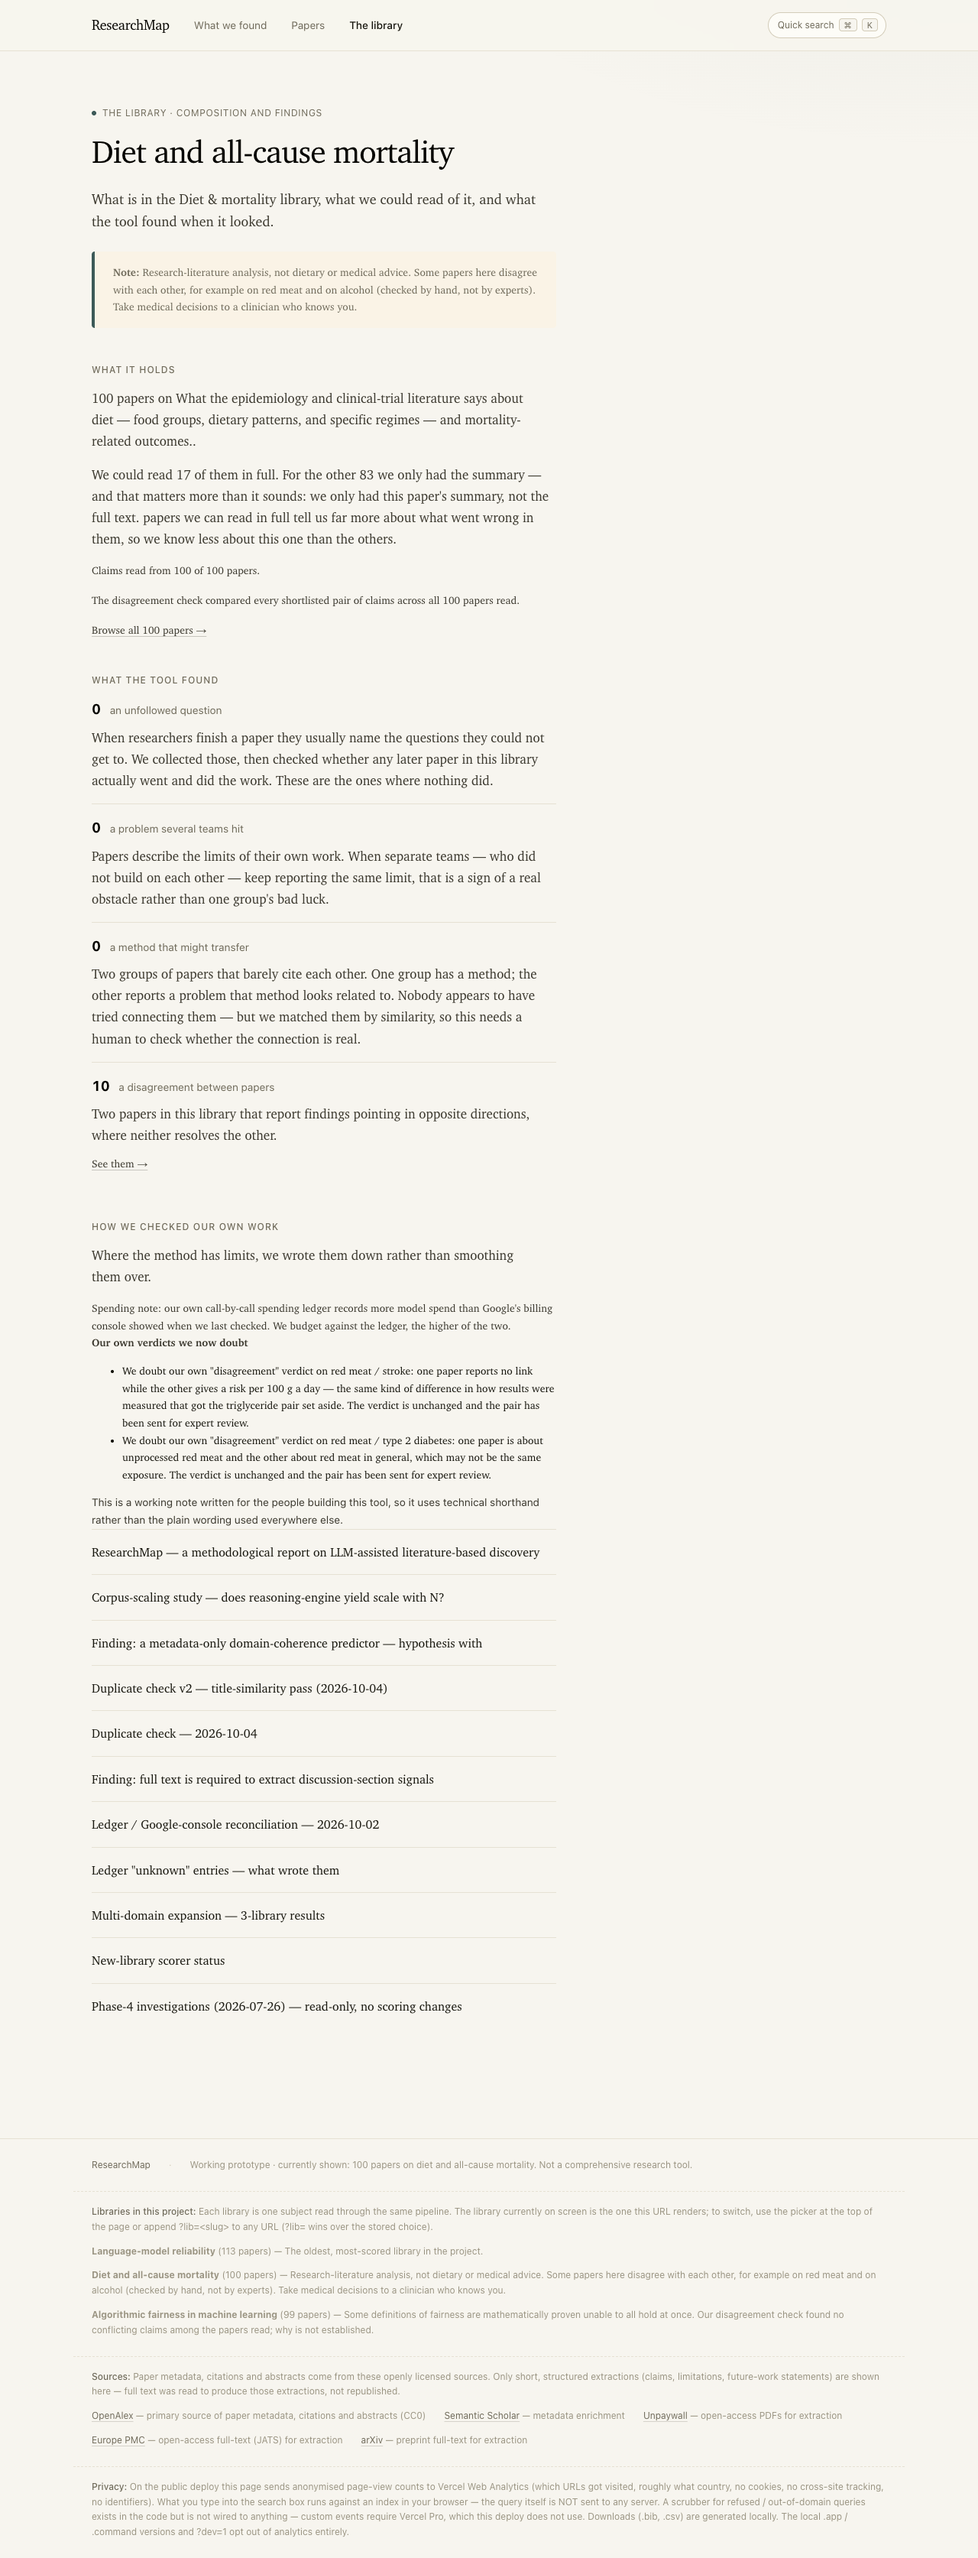
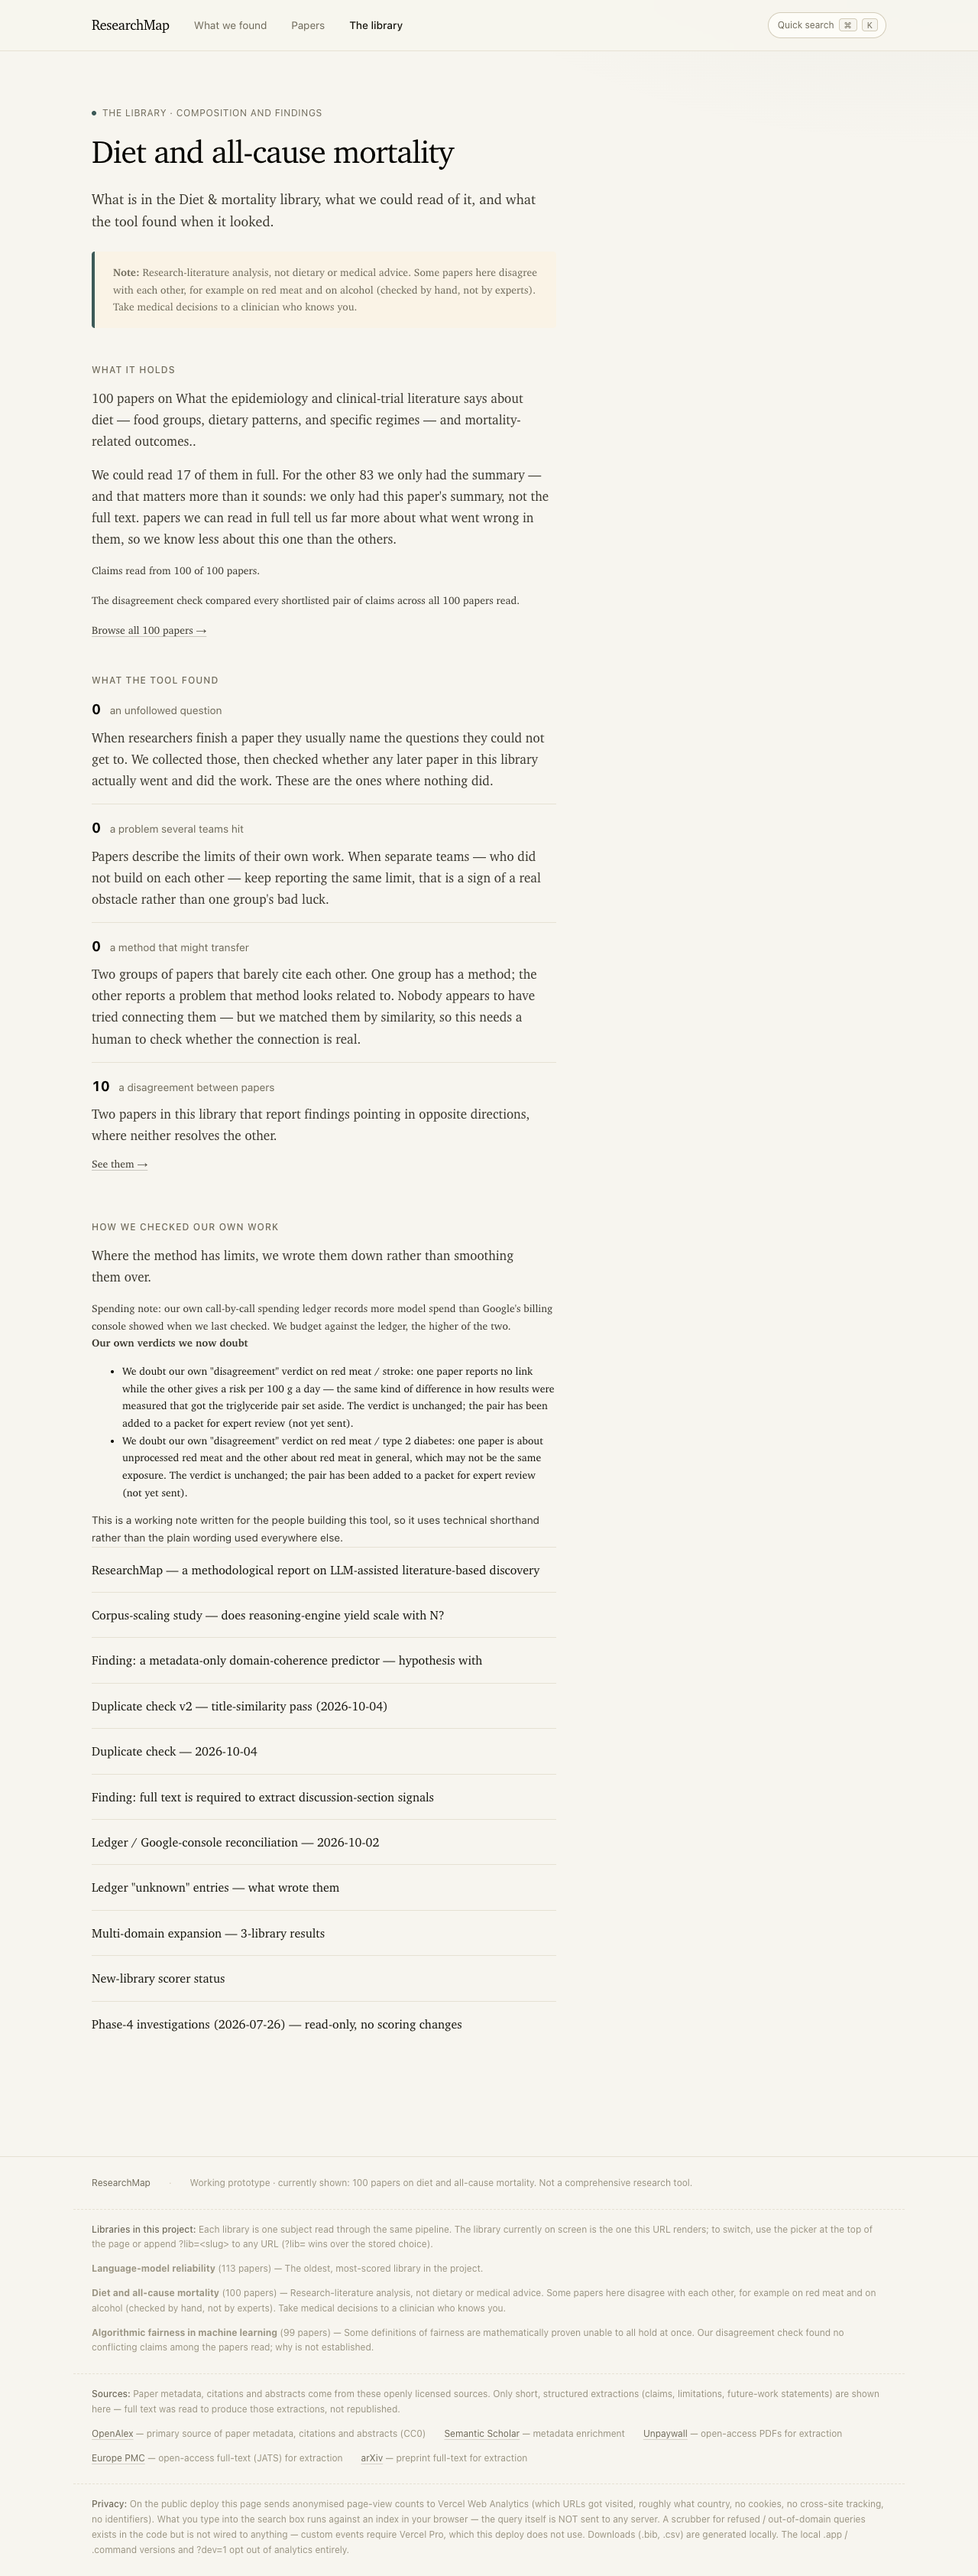
verify: iteration-6 production build (55/55)

diff --git a/scripts/verify/verify_iter6.py b/scripts/verify/verify_iter6.py
@@ -1,0 +1,199 @@
+"""Iteration-6 verification against the production static build.
+
+  (cd frontend && npm run build)                       # no ENABLE_DEV
+  python -m http.server 8765 --bind 127.0.0.1 -d frontend/out &
+  .venv/bin/python scripts/verify/verify_iter6.py <build-sha>
+
+Fresh browser context per check; library via ?lib=<slug>. Settled state:
+1500 ms after the last keystroke. Expected text is read from the shipped
+JSON and the denylist from backend/tests/api/test_public_claims.py, never
+hard-coded here.
+"""
+from __future__ import annotations
+
+import json
+import sys
+from datetime import date
+from pathlib import Path
+
+from playwright.sync_api import sync_playwright
+
+REPO = Path(__file__).resolve().parents[2]
+sys.path.insert(0, str(REPO))
+from backend.tests.api.test_public_claims import DENYLIST  # noqa: E402
+
+BASE = "http://127.0.0.1:8765"
+DATA = REPO / "frontend" / "public" / "data"
+SHOTS = REPO / "docs" / "review" / "screenshots"
+REPORT = REPO / "docs" / "review" / "verification-iteration6.md"
+LIBS = ["llm-calibration", "diet-and-mortality", "ml-fairness"]
+SHOTS.mkdir(parents=True, exist_ok=True)
+results: list[tuple[bool, str]] = []
+
+
+def rec(ok: bool, label: str, detail: str = "") -> None:
+    results.append((ok, f"[{'PASS' if ok else 'FAIL'}] {label}"
+                    + (f" — {detail}" if detail and not ok else "")))
+    print(results[-1][1])
+
+
+def body(pg) -> str:
+    return pg.inner_text("body").lower()
+
+
+def refusal(pg) -> bool:
+    return "that's not in this library" in body(pg)
+
+
+def edge(pg) -> bool:
+    return "at the edge of this library" in body(pg)
+
+
+def open_lib(pg, slug: str, path: str = "/") -> None:
+    pg.goto(f"{BASE}{path}?lib={slug}", wait_until="networkidle")
+    pg.wait_for_timeout(700)
+
+
+def type_settled(pg, sel: str, text: str) -> None:
+    pg.wait_for_selector(sel)
+    pg.fill(sel, "")
+    pg.type(sel, text, delay=120)
+    pg.wait_for_timeout(1500)
+
+
+def main() -> int:
+    sha = sys.argv[1] if len(sys.argv) > 1 else "unknown"
+    findings = json.loads((DATA / "findings.json").read_text())["items"]
+    lang = {s: json.loads(((DATA if s == "llm-calibration" else DATA / "library" / s)
+                           / "language.json").read_text()) for s in LIBS}
+    with sync_playwright() as p:
+        br = p.chromium.launch(channel="chrome", headless=True)
+
+        # ---- Findings pages render, on every library, with no denylisted claim
+        for slug in LIBS:
+            for f in findings:
+                c = br.new_context()
+                pg = c.new_page()
+                open_lib(pg, slug, f"/findings/{f['slug']}/")
+                b = body(pg)
+                first_line = next((ln.strip().lstrip("#").strip() for ln in f["markdown"].splitlines()
+                                   if ln.strip().startswith("# ")), f["title"]).lower()
+                hits = [d for d in DENYLIST if d.lower() in b]
+                ok = (first_line[:40] in b and len(b) > 500 and not hits
+                      and "<!-- gen" not in b and "gen:" not in b)
+                rec(ok, f"{slug}: /findings/{f['slug']} renders, no denylisted phrase",
+                    f"hits={hits} title_found={first_line[:40] in b} len={len(b)}")
+                if f["slug"] == "multi-domain":
+                    rec("why zero? not established" in b and "(a)" in b and "(c)" in b,
+                        f"{slug}: multi-domain shows 'Why zero? Not established' with hypotheses (a)-(c)")
+                    if slug == "ml-fairness":
+                        pg.screenshot(path=str(SHOTS / "iter6-findings-multi-domain.png"), full_page=True)
+                c.close()
+
+        # ---- Iteration 6: ml-fairness paper count + coverage from data
+        mstats = json.loads((DATA / "library" / "ml-fairness" / "stats.json").read_text())
+        c = br.new_context()
+        pg = c.new_page()
+        open_lib(pg, "ml-fairness")
+        b = body(pg)
+        rec(mstats["extraction_coverage_note"].lower() in b
+            and mstats["disagreement_check_note"].lower() in b
+            and f"{mstats['papers']} of {mstats['papers']}" in b,
+            f"ml-fairness stats card shows {mstats['papers']} papers and the true coverage",
+            mstats["extraction_coverage_note"])
+        rec(f"({mstats['papers']} papers)" in b,
+            f"footer lists ml-fairness with {mstats['papers']} papers")
+        pg.screenshot(path=str(SHOTS / "iter6-mlf-home.png"), full_page=True)
+        c.close()
+
+        # ---- Iteration 6: audit doubts on the library pages + findings page
+        for slug in ("diet-and-mortality", "ml-fairness"):
+            st = json.loads((DATA / "library" / slug / "stats.json").read_text())
+            c = br.new_context()
+            pg = c.new_page()
+            open_lib(pg, slug, "/library/")
+            b = body(pg)
+            rec("our own verdicts we now doubt" in b
+                and all(d.lower()[:80] in b for d in st["audit_doubts"]),
+                f"{slug}: /library shows the audit-doubts section ({len(st['audit_doubts'])} items)")
+            if slug == "diet-and-mortality":
+                pg.screenshot(path=str(SHOTS / "iter6-diet-library-doubts.png"), full_page=True)
+            c.close()
+        md = next(f for f in findings if f["slug"] == "multi-domain")["markdown"]
+        for slug in LIBS:
+            c = br.new_context()
+            pg = c.new_page()
+            open_lib(pg, slug, "/findings/multi-domain/")
+            b = body(pg)
+            rec("audit doubts" in b and "red meat / stroke" in b and "red meat / type 2 diabetes" in b
+                and "iteration 3 ran at 0.72" in b and "items 13" not in b,
+                f"{slug}: multi-domain findings show the audit-doubts section")
+            c.close()
+
+        # ---- Footer notes follow the library and carry the corrected copy
+        for slug in LIBS:
+            c = br.new_context()
+            pg = c.new_page()
+            open_lib(pg, slug)
+            b = body(pg)
+            notes = [i["note"].lower() for i in lang[slug]["libraries_note"]["items"]]
+            rec(all(n[:60] in b for n in notes) and "saturated fat" not in b
+                and "papers here disagree about which incompatibility" not in b,
+                f"{slug}: footer shows corrected library notes")
+            c.close()
+
+        # ---- Regression: settled typing
+        for slug, q, must in [("diet-and-mortality", "alc", "alcohol"),
+                              ("ml-fairness", "fair", "fair"),
+                              ("llm-calibration", "halluc", "halluc")]:
+            c = br.new_context()
+            pg = c.new_page()
+            open_lib(pg, slug)
+            type_settled(pg, "#ask-input", q)
+            b = body(pg)
+            n_results = pg.locator(".results-list > *").count()
+            rec(n_results > 0 and must in b and not refusal(pg) and not edge(pg),
+                f"settled: {slug} '{q}' → {n_results} results present, no banner", b[:200])
+            if slug == "diet-and-mortality":
+                pg.screenshot(path=str(SHOTS / "iter6-diet-alc.png"), full_page=True)
+            c.close()
+
+        for slug in LIBS:
+            c = br.new_context()
+            pg = c.new_page()
+            open_lib(pg, slug)
+            type_settled(pg, "#ask-input", "melanoma treatment")
+            rec(refusal(pg) and not edge(pg),
+                f"settled: {slug} 'melanoma treatment' refuses", body(pg)[:200])
+            if slug == "ml-fairness":
+                pg.screenshot(path=str(SHOTS / "iter6-mlf-melanoma.png"), full_page=True)
+            c.close()
+
+        # ---- Spend figures never shown to consumers
+        for slug in LIBS:
+            c = br.new_context()
+            pg = c.new_page()
+            open_lib(pg, slug, "/library/")
+            b = body(pg)
+            rec("spend_to_date" not in b and "spend ledger" not in b.replace("spending ledger", ""),
+                f"{slug}: /library shows no spend figure")
+            c.close()
+        br.close()
+
+    n_ok = sum(ok for ok, _ in results)
+    lines = [f"# Iteration-6 verification — {n_ok}/{len(results)} pass", "",
+             f"- Date: {date.today().isoformat()}",
+             f"- Build sha (HEAD of the tree the static build was made from): `{sha}`",
+             "- Production static build (`npm run build`, no ENABLE_DEV), served from frontend/out.",
+             "- Playwright + system Chrome; fresh context per check; library via ?lib=<slug>.",
+             "- Settled state: 1500 ms after the last keystroke.",
+             "- Denylist imported from backend/tests/api/test_public_claims.py.",
+             "- Screenshots: `docs/review/screenshots/iter6-*.png`.", ""]
+    lines += [ln for _, ln in results]
+    REPORT.write_text("\n".join(lines) + "\n")
+    print(f"\nPASS={n_ok} FAIL={len(results) - n_ok}")
+    return 0 if n_ok == len(results) else 1
+
+
+if __name__ == "__main__":
+    raise SystemExit(main())

diff --git a/PROGRESS.md b/PROGRESS.md
@@ -1,5 +1,23 @@
 # PROGRESS
 
+## Iteration 6 — owner decisions applied (2026-10-04) ✅
+
+No paid calls (ledger unchanged at the frozen cap). **626 tests green.**
+Validation (Phase 6) is still owed. Details: `REPORT_iteration6.md`.
+
+- ml-fairness: AI Fairness 360 preprint merged into the 2019 journal
+  version (merge-policy survivor rule, `merged_from` kept, extraction
+  unioned); 100 -> 99 papers, 95 -> 91 shortlisted pairs, 4 self-supports
+  dropped; 0 flagged before and after.
+- Dedup pass 5 (title similarity + numeric and abstract guards) in
+  `normalizer.py`; `docs/merge-policy.md` extended;
+  `docs/findings/duplicate-check-v2.md`; no further merges.
+- LLM-cal: `44981e91c40dfe6d` documented as a frozen label; content
+  fingerprint in `data/llm_cal_fingerprint.json`, checked by tests.
+- Audit doubts shipped (library page + multi-domain.md); second diet
+  expert packet `docs/review/diet-contradictions-v2/` (v1 untouched; key
+  outside the repo).
+
 ## Iteration 5 — honesty + ledger integrity fixes (2026-10-04) ✅
 
 No paid calls (ledger cap frozen at the corrected cumulative). **605 tests

diff --git a/docs/review/verification-iteration6.md b/docs/review/verification-iteration6.md
@@ -1,7 +1,7 @@
 # Iteration-6 verification — 55/55 pass
 
 - Date: 2026-10-04
-- Build sha (HEAD of the tree the static build was made from): `ac11a98453374cc4df034c6a1f1cb1e4f4c7fe21`
+- Build sha (HEAD of the tree the static build was made from): `75e3735ad4817fff63a5e9ab36700463686e14a3`
 - Production static build (`npm run build`, no ENABLE_DEV), served from frontend/out.
 - Playwright + system Chrome; fresh context per check; library via ?lib=<slug>.
 - Settled state: 1500 ms after the last keystroke.
@@ -63,3 +63,11 @@
 [PASS] llm-calibration: /library shows no spend figure
 [PASS] diet-and-mortality: /library shows no spend figure
 [PASS] ml-fairness: /library shows no spend figure
+
+## Run history
+
+- Run 1 (build of `ac11a98`): 55/55. A manual look at the audit-doubts
+  screenshot showed the doubt text said the pairs had "been sent for
+  expert review" — untrue (the packet has not been sent). Fixed at the
+  source in `backend/app/corpus/audit_doubts.py`, with a test.
+- Run 2 (this file, rebuilt after the fix): 55/55.
